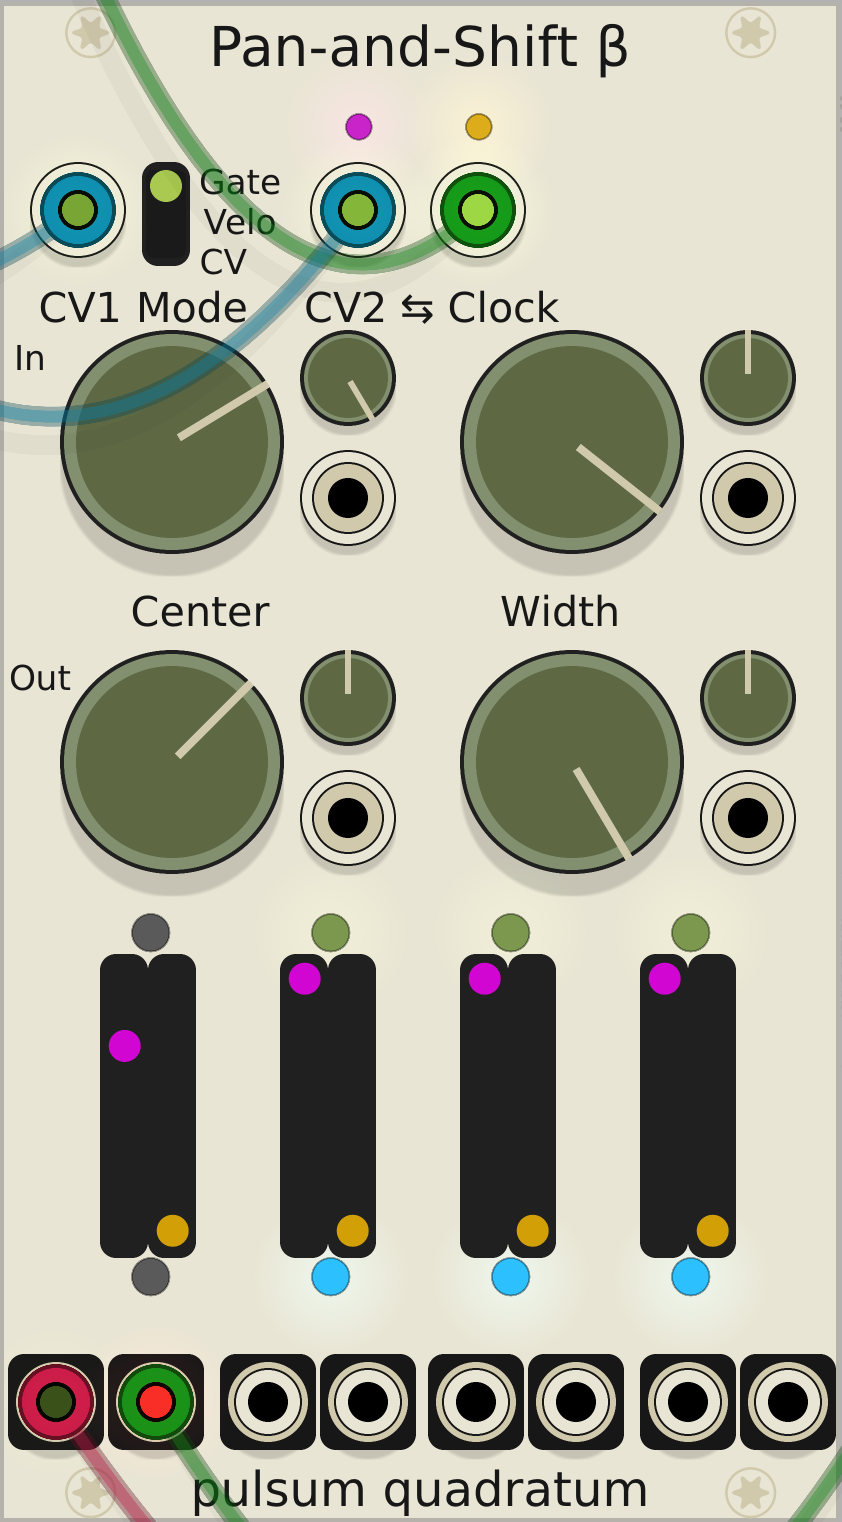
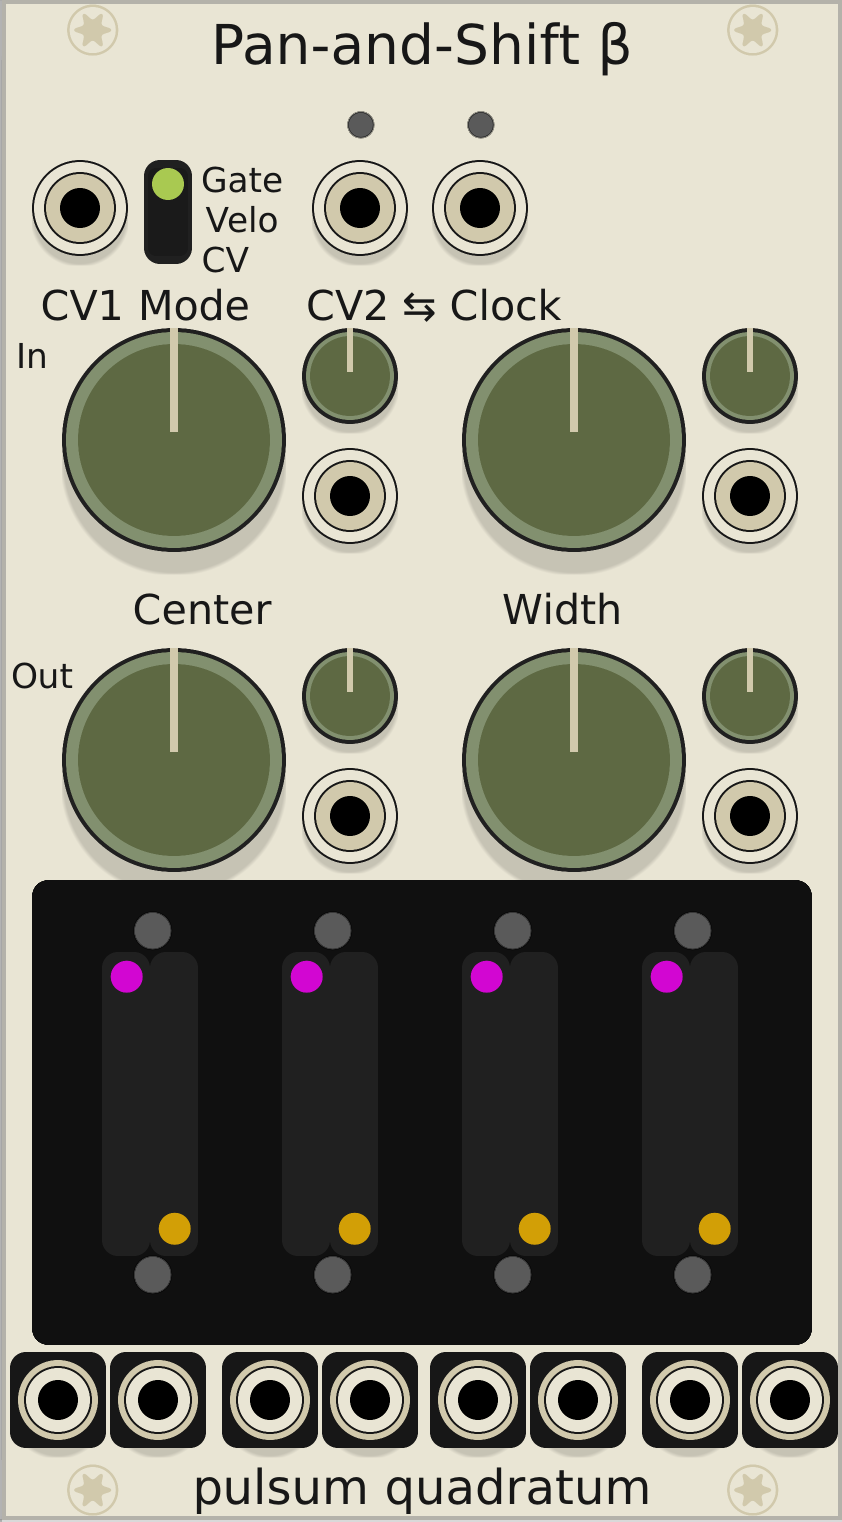
added design notes

diff --git a/index.md b/index.md
@@ -13,19 +13,21 @@ description: New tools for synthesis, blah blah
   <label for="mn-exports-imports" class="margin-toggle">Photos</label><input type="checkbox" id="mn-exports-imports" class="margin-toggle"><span class="marginnote">
   <img src="images/pan-and-shift-beta-1.png" alt="Pan-and-shift β 1">
   <br>
-  <em>Not final layout.</em>
+  <em>Not final layout; misaligned elements to fix, etc.</em>
   </span>
 </figure>
 <p>
-<span class="newthought">Pan-and-Shift</span> is a four voice, voltage-controlled
-looping shift register for the <a href="http://www.vcvrack.com/">VCVRack</a> modular synthesis environment.
+<span class="newthought">Pan-and-Shift</span> is a four-voice, voltage-controlled
+looping demultiplexed shift register for the <a href="http://www.vcvrack.com/">VCVRack</a> modular synthesis environment.
 By carefully applying modulation to the Pan-and-Shift, automatic variations upon
 melodic patterns may generated.
 </p>
 
 ## Shift Registers
 
-The Pan-and-Shift has 4 independent shift registers, denoted <strong>lanes</strong>. Each lane
+The Pan-and-Shift has 4 independent “analog” shift
+ registers<label for="sn-asr" class="margin-toggle sidenote-number"></label><input type="checkbox" id="sn-asr" class="margin-toggle"><span class="sidenote">Familiarity with basic <a href="https://sites.google.com/site/westcoastsynthesis/asr">analog shift register</a> operation will help comprehension of this document.</span>,
+ denoted <strong>lanes</strong>. Each lane
 has two <strong>channels</strong>. The left-hand channel is intended for a pitch CV, for generating a melody.
 The right-hand channel may be utilized for a secondary modulation, or a pattern of gates.
 
@@ -36,13 +38,12 @@ value is greater than the left <em>length</em> value, the tap will be set to the
 of the lane. Independent values for the tap position and the lane length will be
 useful when utilizing the looping feature.
 
-## Pan and Scan Sections
+## Pan-and-Scan Sections
 
 Below the primary CV inputs there are two pan-and-scan<label for="sn-ps" class="margin-toggle sidenote-number"></label><input type="checkbox" id="sn-ps" class="margin-toggle"><span class="sidenote">See Make Noise RxMx, Verbos Pan and Scan, Toppobrillo Mixiplexer, etc.</span>
-blocks, one for the channel inputs &amp; and one for the channel outputs. By adjusting the position of these knobs and applying
-modulation to the inputs, you may control which lanes are receiving input
-and which lanes are outputting. The state of each lane and its activity are
-indicated by the LEDs above and below each channel.
+blocks, for the lane inputs and outputs respectively. By adjusting the position of these knobs and applying
+modulation, you may control which lanes are receiving input and which lanes are outputting.
+The state of each lane and its activity are indicated by the LEDs above and below each channel.
 
 When neither the input the output nor the input of a lane is active, a clock trigger
 will not cause the state of a lane to change.<label for="sn-muted" class="margin-toggle sidenote-number"></label><input type="checkbox" id="sn-muted" class="margin-toggle"><span class="sidenote">
@@ -56,7 +57,7 @@ e.g. the cell at the position pointed to by <em>length</em>
 copied into the input, causing <em>looping</em>.
 
 By passing the width control counterclockwise, past 12 o'clock<label for="sn-neg" class="margin-toggle sidenote-number"></label><input type="checkbox" id="sn-neg" class="margin-toggle"><span class="sidenote">
-  Or applying modulation such that the summed <em>width</em> voltage is negative.
+  Or by applying modulation such that the summed <em>width</em> voltage is negative.
 </span>,
 we engage <em>inverted channel width</em>. By doing so, the channel with grows inwards from
 the outer channels towards the center point.
@@ -65,14 +66,14 @@ the outer channels towards the center point.
 
 The CV2 channel has three modes accessible from the panel switch:
 
-<span class="newthought">Gate</span> mode outputs a 10-volt gate if the value
+<span class="newthought">Gate</span> mode triggers a 10-volt gate if the value
 in the CV channel is high. When CV2 is normalled to the clock input, the CV2 channels
 will generate short trigger pulses instead of gates.
 
 <span class="newthought">Velocity</span> mode outputs the stored CV while the
 input clock is high. This is useful for generating a variable height modulation
 envelope with a slew limiter.<label for="sn-befaco" class="margin-toggle sidenote-number"></label><input type="checkbox" id="sn-befaco" class="margin-toggle"><span class="sidenote">
-    The Slew Limiter and Rampage modules from Befaco are good candidate for this application in VCVRack.
+    The Slew Limiter and Rampage modules from Befaco are good candidates for this application in VCVRack.
 </span>
 
 <span class="newthought">CV</span> mode causes the right channel to operate identically
@@ -83,6 +84,16 @@ to the left-hand channel. This is useful for encoding a timbre parameter.
 CV2 and clock inputs are bidirectionally normalled to each other.
 <em>Width</em> and <em>center</em> modulation inputs are normalled downwards
 from the input block to the output block.
+
+## Design Notes
+
+Although the module takes inspiration from a number of existing designs, the overall
+scheme is novel to the best of my knowledge. The visual design attempts to draw on
+ elements from Digital Equipment Corporation's 1970s era minicomputer<label for="sn-dec" class="margin-toggle sidenote-number"></label><input type="checkbox" id="sn-dec" class="margin-toggle"><span class="sidenote">
+  The color elements in this module are based on the <a href="https://en.wikipedia.org/wiki/PDP-11">PDP 11</a>.
+  An interested reader may note that the <a href="http://gunkies.org/wiki/PDP-11/20">PDP 11/20</a> also featured <a href="http://gunkies.org/wiki/ASR33">ASRs</a>.
+ </span>
+ consoles.
 
 <!--
 <ul>
